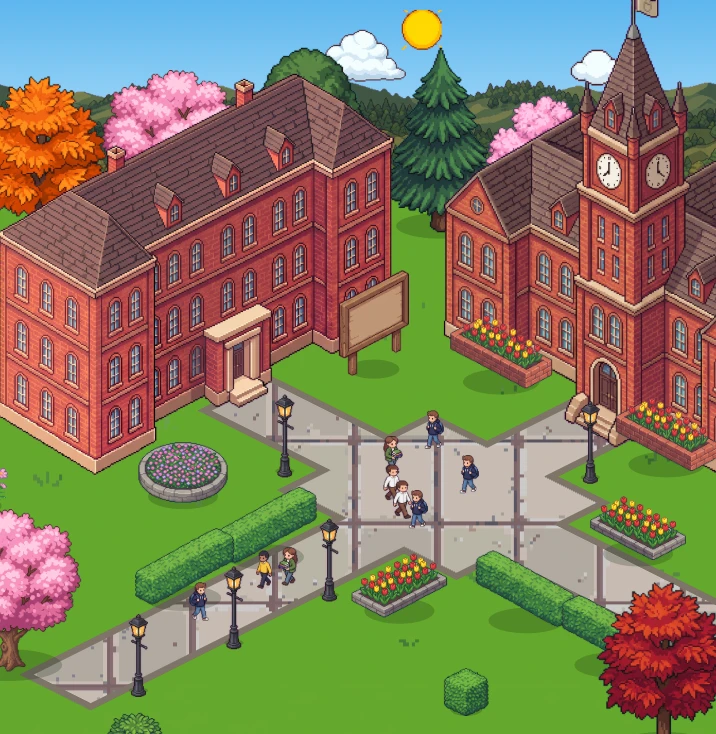
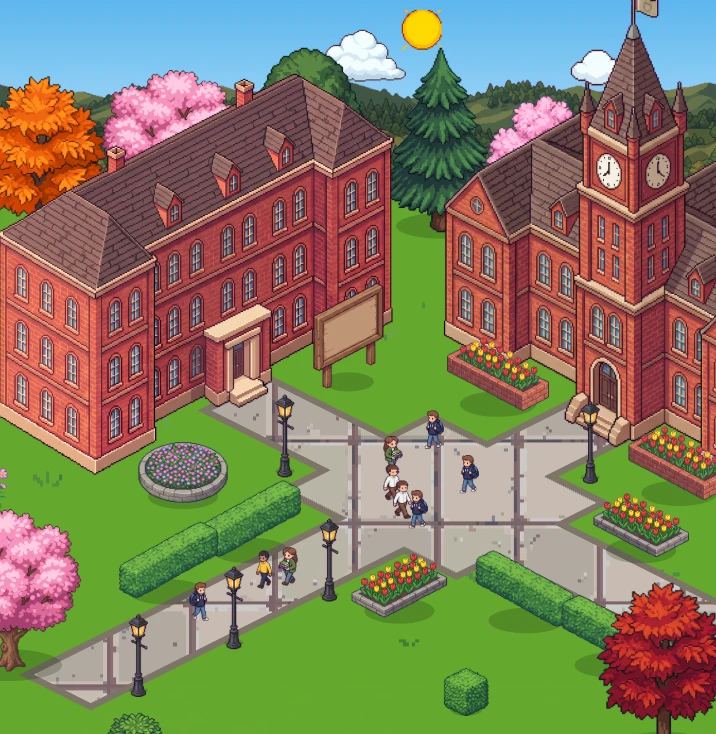
fix: 테스트 실패 수정

diff --git a/frontend/src/data/campusLayouts.ts b/frontend/src/data/campusLayouts.ts
@@ -375,7 +375,7 @@ export const CAMPUS_LAYOUTS: Readonly<Partial<Record<number, CampusLayout>>> = {
       // The lamp by the main hall stands in front of it, never hidden behind it (user request 2026-11-27).
       at('lamp', iso(lv6Plaza, 18, -28), { depth: lv6Main.y + 1 }), at('lamp', iso(lv6Plaza, -32, 18)),
       ...along(iso(lv6Plaza, 0, 50), iso(lv6Plaza, 0, 110), 3).map((p) => at('lamp', iso(p, 14))),
-      at('flowerbed-1', iso(lv6Plaza, 30, 44)), at('flowerbed-2', iso(lv6Plaza, -40, 42)), at('flowerbed-1', iso(lv6Plaza, 49, -12), { flip: true }),
+      at('flowerbed-1', iso(lv6Plaza, 30, 44)), at('flowerbed-2', iso(lv6Plaza, -40, 42)), at('flowerbed-1', iso(lv6Plaza, 49, -13), { flip: true }),
       at('bush-2', P(214, 264)), at('tree-cherry-1', P(70, 250)), at('tree-maple-red', P(276, 276)),
       ...crowd(lv6Plaza, 24, 20, 6, 3), ...crowd(iso(lv6Plaza, 0, 60), 6, 30, 3, 4),
       ...scatter([P(110, 280), P(310, 236), P(60, 200)], 5),
@@ -384,7 +384,7 @@ export const CAMPUS_LAYOUTS: Readonly<Partial<Record<number, CampusLayout>>> = {
       at('signboard', iso(faceMid(lv6Main, 'left'), -50, 30), { depth: lv6Main.y + 1 }),
       // Garden fill (F11, UF): low hedges edge the plaza walks, planters line the hall front.
       ...[53, 80].map((u) => at('hedge-low', iso(lv6Plaza, u, 27), { flip: true })),
-      ...[48, 74].map((v) => at('hedge-low', iso(lv6Plaza, -8, v))),
+      ...[48, 74].map((v) => at('hedge-low', iso(lv6Plaza, -13, v))),
       ...[-20, 37].map((u) => at('planter-strip', iso(faceMid(lv6Main, 'left'), u, 13), { flip: true, depth: lv6Main.y + 1 })),
     ],
     features: { '제2강의동': 'lecture-2-r', '빈티지 가로등': 'lamp', '화단': 'flowerbed-1' },
@@ -416,9 +416,9 @@ export const CAMPUS_LAYOUTS: Readonly<Partial<Record<number, CampusLayout>>> = {
       // door is on the right face, so the board runs along V unflipped (user request 2026-11-27).
       at('signboard', iso(faceMid(lv7Lecture, 'right'), 10, -40), { depth: lv7Lecture.y + 1 }),
       // Garden fill (F11). Long props run along V unflipped and along U flipped.
-      ...[74, 115].map((u) => at('fence-iron', iso(lv7Plaza, u, -8), { flip: true })),
-      ...[122, 150].map((v) => at('hedge-low', iso(lv7Gate, -10, v))),
-      ...[40, 66].map((u) => at('flower-border', iso(lv7South, u, -10), { flip: true })),
+      ...[74, 115].map((u) => at('fence-iron', iso(lv7Plaza, u, -13), { flip: true })),
+      ...[122, 150].map((v) => at('hedge-low', iso(lv7Gate, -15, v))),
+      ...[40, 66].map((u) => at('flower-border', iso(lv7South, u, -14), { flip: true })),
     ],
     features: { '종합 경기장': 'stadium', '가로수길': 'tree-cherry-2', '캠퍼스 광장': 'tex-paving' },
   },

diff --git a/frontend/tests/campusScene.test.ts b/frontend/tests/campusScene.test.ts
@@ -188,7 +188,8 @@ test('Lv.10: flags stand off the paving and banner lamps ring the square (F9)', 
     assert.ok(paving.every((t) => polygonDistance([flag.x, flag.y], t.points) > 0), `Lv.10 flag at ${flag.x},${flag.y} stands on the paving`);
   }
   assert.ok(layout.items.filter((i) => i.asset === 'lamp-banner').length >= 6, 'Lv.10 banner lamps');
-  assert.ok(layout.items.filter((i) => /^(flowerbed-|flower-border)/.test(i.asset)).length >= 6, 'Lv.10 flowerbeds frame the square');  // User request (2026-11-10): from Lv.10 the campus is one L-shaped grand hall, not separate buildings.
+  // Four flower borders trim the open sides; the two corner flowerbeds were taken out (user, 2026-11-27).
+  assert.ok(layout.items.filter((i) => /^(flowerbed-|flower-border)/.test(i.asset)).length >= 4, 'Lv.10 flower borders frame the square');  // User request (2026-11-10): from Lv.10 the campus is one L-shaped grand hall, not separate buildings.
   const buildings = layout.items.filter((i) => footprintOf(i) && i.asset !== 'fountain').map((i) => i.asset);
   assert.deepEqual(buildings, ['grand-hall']);
   // User request (2026-11-10): a fountain, trees, and walks out to the lower left and lower right.
